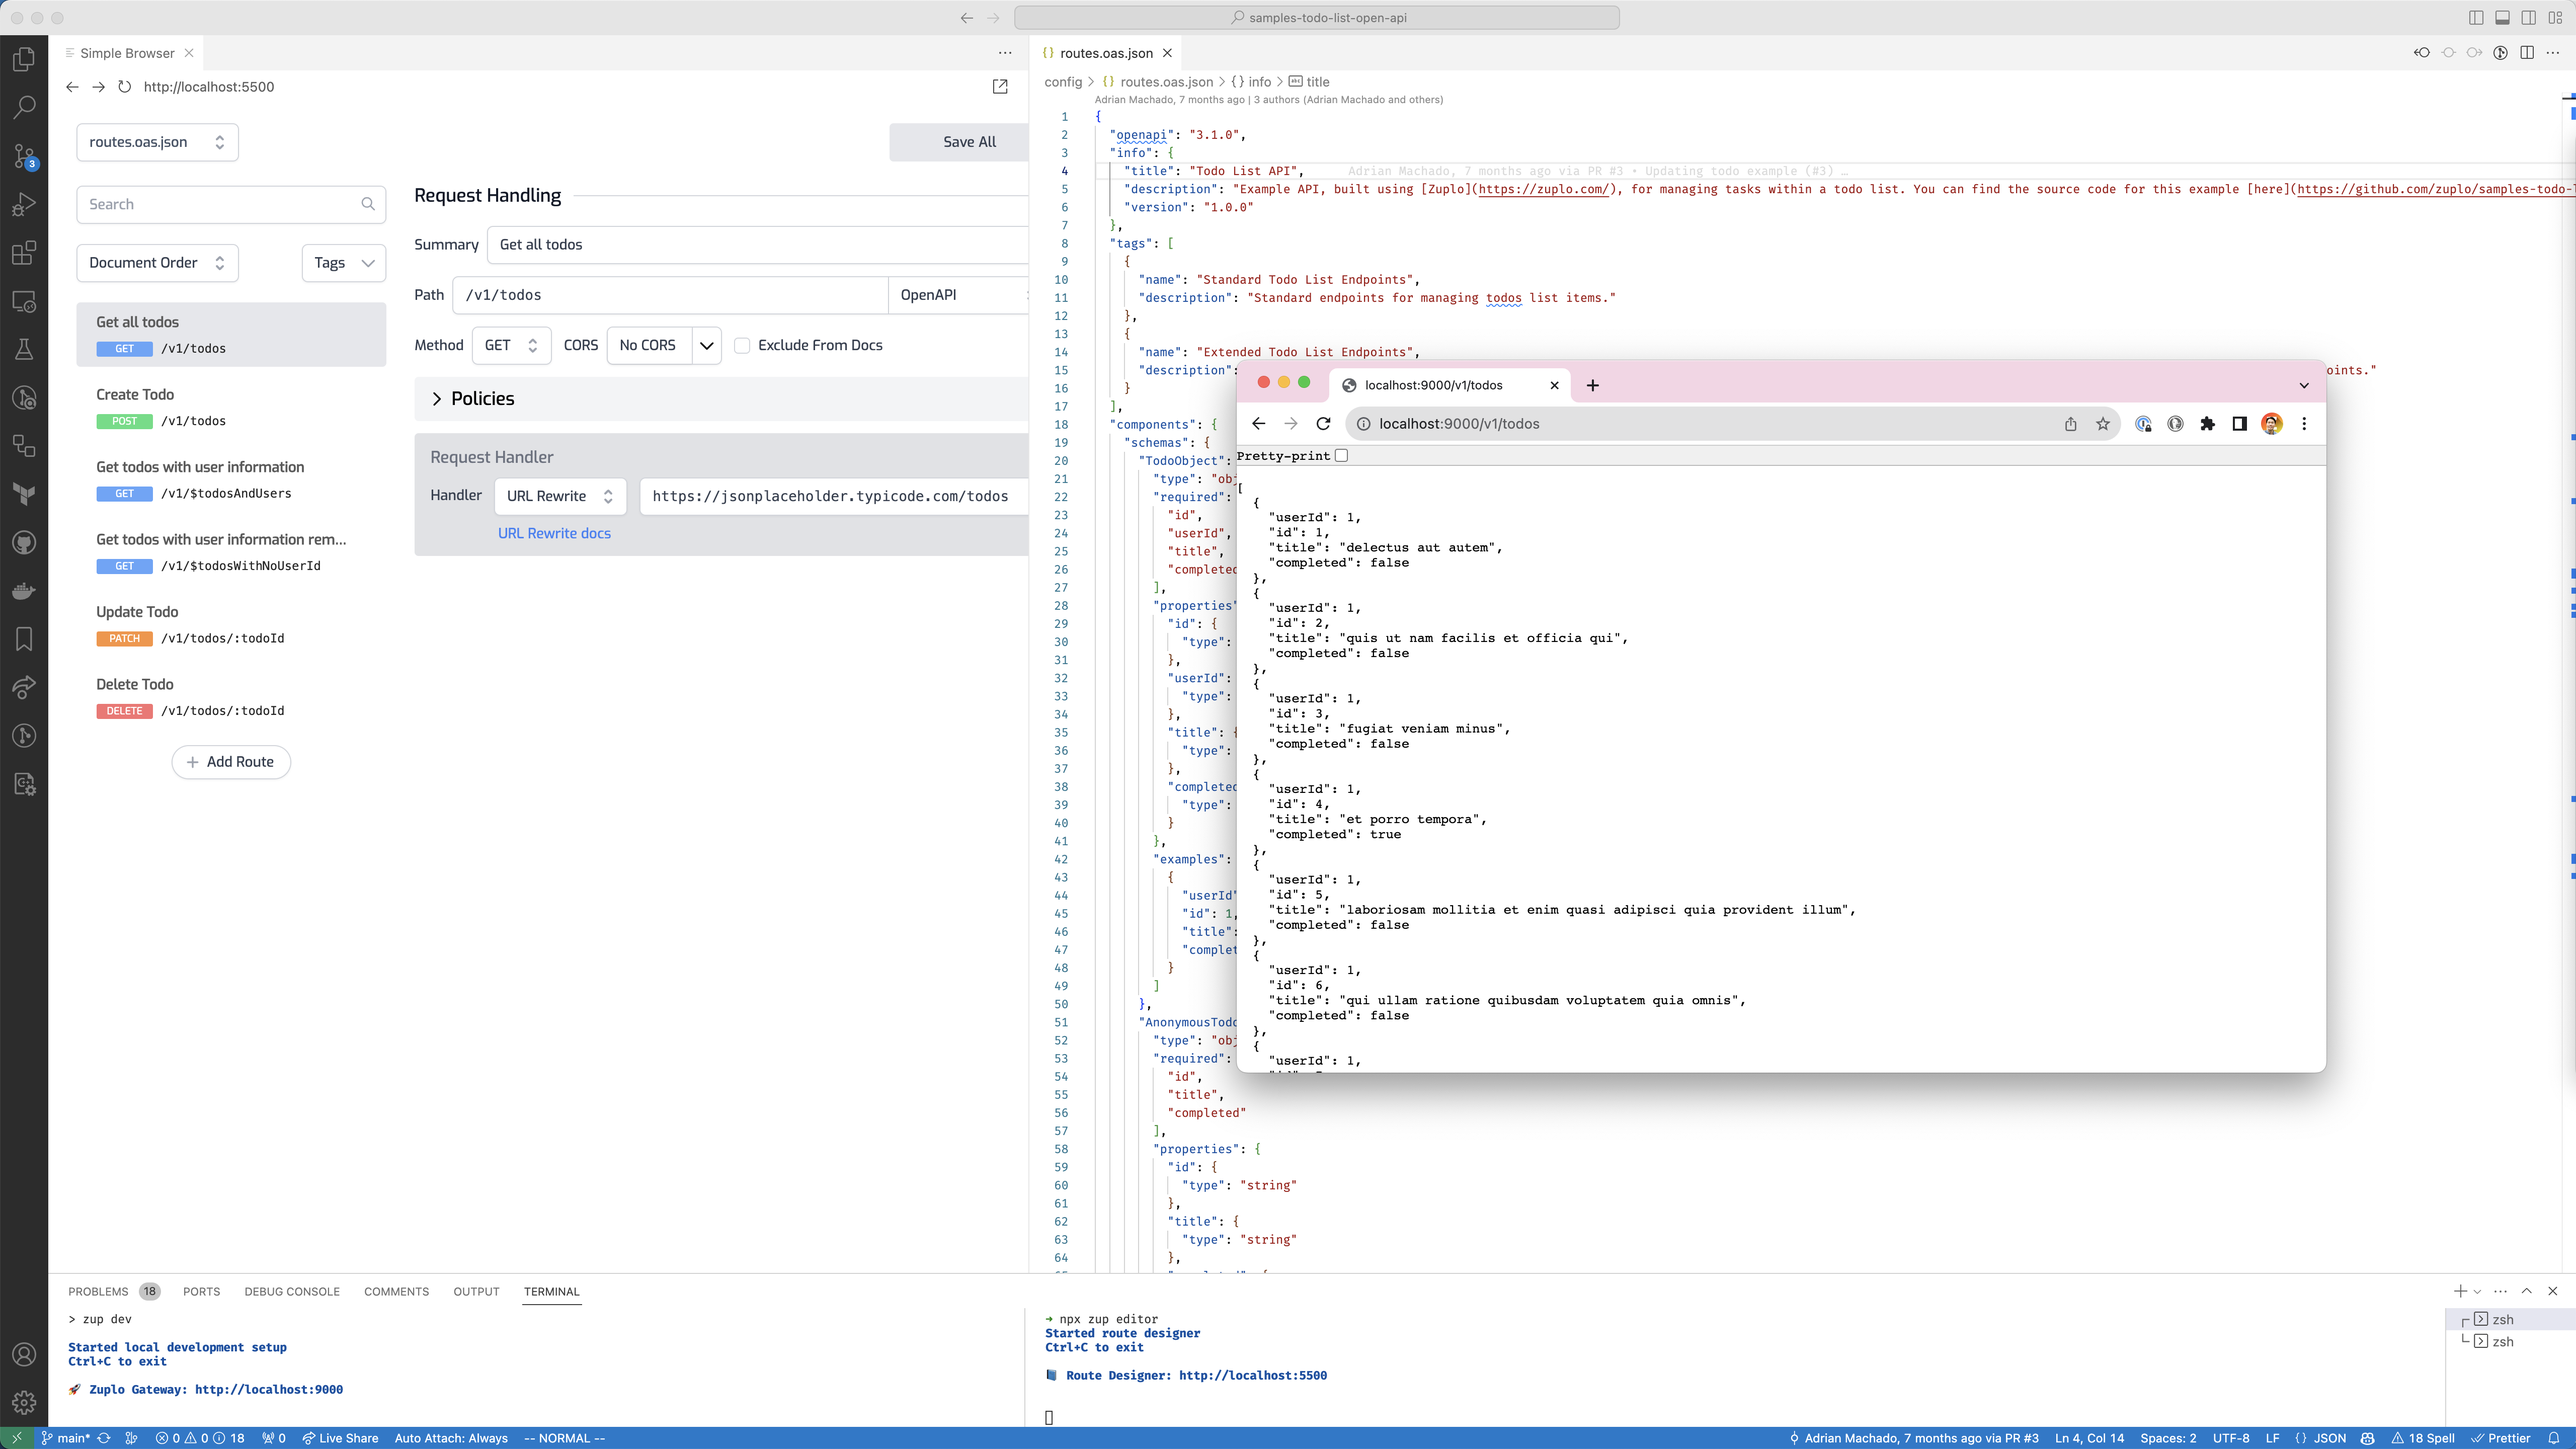
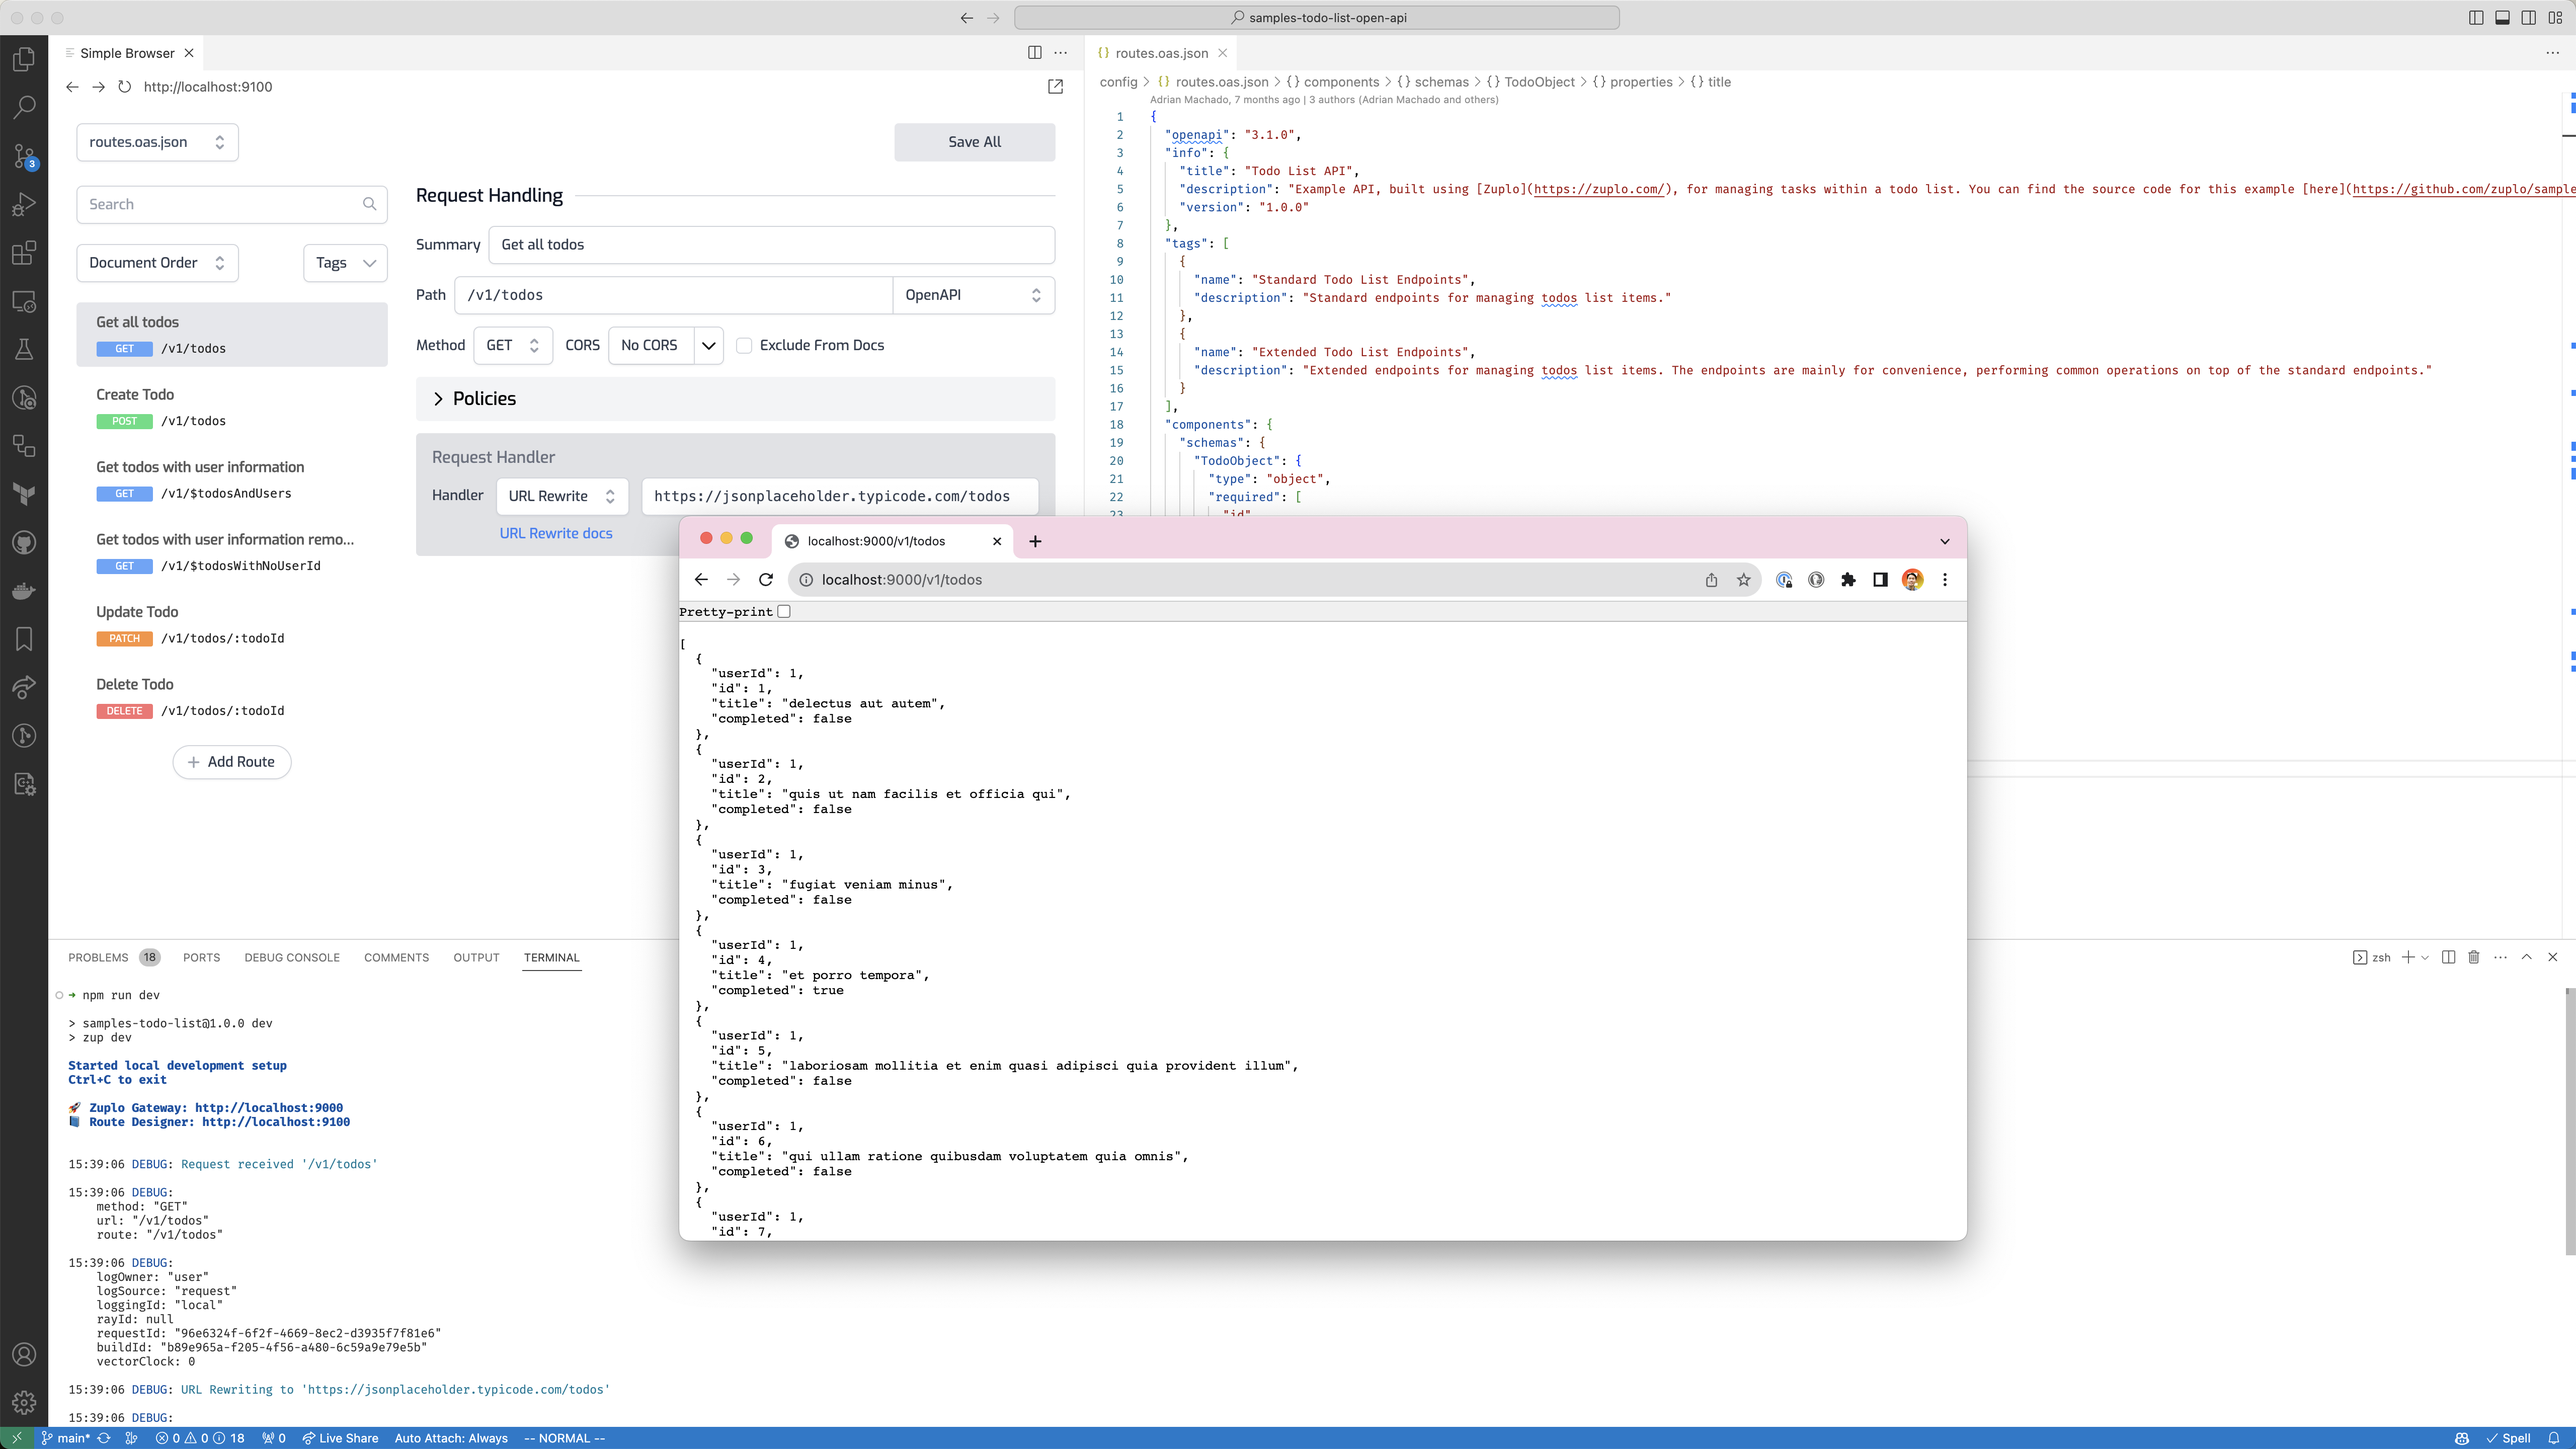
Update documentation for local development

diff --git a/docs/articles/local-development.md b/docs/articles/local-development.md
@@ -48,10 +48,9 @@ npm run dev
 6. The Zuplo CLI is running in `watch` mode. Any changes you make will be
    automatically compiled behind the scenes.
 7. While you can edit your routes.oas.json files by hand, we also have a Route
-   Designer that you can run. Just run `npx zup editor` to start the Route
-   Designer locally. You can open the Route Designer in your browser at
-   http://localhost:5500. If you are using VS Code, you can open it in the
-   Simple Browser to see it side-by-side.
+   Designer that is started when you run `npm run dev`. You can open the Route
+   Designer in your browser at http://localhost:9100. If you are using VS Code,
+   you can open it in the Simple Browser to see it side-by-side.
 8. Once you are done running your Zuplo Gateway locally, you can press `Ctrl+C`
    to stop the Zuplo CLI.
 
@@ -72,9 +71,9 @@ npm run dev
 4. Alternatively, you could also edit it manually so that it looks _like_ the
    following. You might have customized your package.json to add your own
    dependencies. You can keep your dependencies, but you should ensure that you
-   only have
-   `"zuplo": "latest"` as the zuplo dependency. Older versions of the auto-generated package.json used to add `@zuplo/core`, `@zuplo/runtime`, and `@zuplo/test`
-   as dependencies. You should remove those dependencies.
+   only have `"zuplo": "latest"` as the zuplo dependency. Older versions of the
+   auto-generated package.json used to add `@zuplo/core`, `@zuplo/runtime`, and
+   `@zuplo/test` as dependencies. You should remove those dependencies.
 
 ```json
 {
@@ -100,10 +99,9 @@ npm run dev
 8. The Zuplo CLI is running in `watch` mode. Any changes you make will be
    automatically compiled behind the scenes.
 9. While you can edit your routes.oas.json files by hand, we also have a Route
-   Designer that you can run. Just run `npx zup editor` to start the Route
-   Designer locally. You can open the Route Designer in your browser at
-   http://localhost:5500. If you are using VS Code, you can open it in the
-   Simple Browser to see it side-by-side.
+   Designer that is started when you run `npm run dev`. You can open the Route
+   Designer in your browser at http://localhost:9100. If you are using VS Code,
+   you can open it in the Simple Browser to see it side-by-side.
 10. Once you are done running your Zuplo Gateway locally, you can press `Ctrl+C`
     to stop the Zuplo CLI.
 
@@ -163,10 +161,11 @@ KEY1=VALUE1
 KEY2=VALUE2
 ```
 
-## Changing the port number
+## Changing the port number(s)
 
-By default the Zuplo CLI runs on port 9000. To change the port number, you can
-call `npx zup dev --port <port number>`.
+By default the Zuplo local server runs on port 9000 and route designer runs on
+port 9100. To change the port number, you can call
+`npx zup dev --port <port number> --editor-port <editor port number>`.
 
 ## Troubleshooting
 
